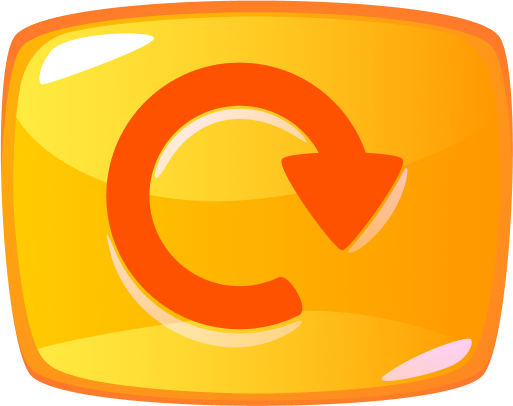
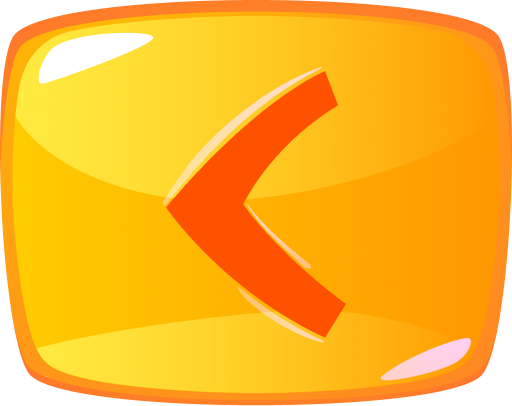
✨ feat(images): add new button and board images for marketplace screen

diff --git a/screens/marketplace/marketplace.css b/screens/marketplace/marketplace.css
@@ -1,28 +1,77 @@
-/* Marketplace Screen Styles */
 .marketplace-screen {
-  position: relative;
-  width: 100%;
-  height: 100%;
-  display: flex;
-  align-items: center;
-  justify-content: center;
-  background: radial-gradient(120% 120% at 50% 0%, #1e1b4b 0%, #0f172a 60%, #090b19 100%);
-}
+  .screen__background {
+    background-image: url("../../assets/images/common/background-01.png");
+    background-size: cover;
+    background-position: center;
+    background-repeat: no-repeat;
+  }
 
-.marketplace-content {
-  text-align: center;
-  color: var(--text-primary);
-}
+  .screen__content {
+    padding: 8% 16px;
+    justify-content: space-between;
+    gap: 3vh;
+  }
 
-.marketplace-title {
-  font-family: var(--font-display);
-  font-size: var(--text-3xl);
-  font-weight: 700;
-  margin-bottom: var(--space-4);
-}
+  .screen__action {
+    width: 100%;
 
-.marketplace-description {
-  font-size: var(--text-lg);
-  color: var(--text-secondary);
-  margin-bottom: var(--space-6);
+    .marketplace-selection {
+      width: 100%;
+      display: flex;
+      align-items: center;
+      justify-content: space-between;
+      gap: 2vw;
+
+      .left-btn,
+      .right-btn {
+        width: 15vw;
+        max-width: 54px;
+        height: auto;
+        cursor: pointer;
+        filter: drop-shadow(0 2px 4px rgba(0, 0, 0, 0.3));
+      }
+
+      .board {
+        width: 55vw;
+        max-width: 300px;
+        height: auto;
+
+        position: absolute;
+        top: -5%;
+        left: 50%;
+        transform: translateX(-50%);
+
+        z-index: 1;
+      }
+
+      .ground {
+        margin-top: 20%;
+        width: 45vw;
+        height: auto;
+      }
+    }
+  }
+
+  .screen__footer {
+    display: flex;
+    justify-content: center;
+    align-items: center;
+
+    .back-btn {
+      width: 24vw;
+      max-width: 120px;
+      height: auto;
+      cursor: pointer;
+      transition: transform 0.2s ease;
+      filter: drop-shadow(0 2px 4px rgba(0, 0, 0, 0.3));
+
+      &:hover {
+        transform: scale(1.1);
+      }
+
+      &:active {
+        transform: scale(0.95);
+      }
+    }
+  }
 }

diff --git a/screens/marketplace/marketplace.html b/screens/marketplace/marketplace.html
@@ -1,7 +1,53 @@
-<div class="marketplace-screen">
-  <div class="marketplace-content">
-    <h1 class="marketplace-title">Marketplace</h1>
-    <p class="marketplace-description">Coming Soon!</p>
-    <button id="back-btn" class="btn btn-primary">Back to Select</button>
+<div class="screen marketplace-screen">
+  <div class="screen__background"></div>
+
+  <div class="screen__content">
+    <div class="screen__logo">
+      <img src="assets/images/logo.png" alt="ACE Logo" class="logo-img" />
+    </div>
+
+    <div class="screen__action">
+      <div class="marketplace-selection">
+        <div class="">
+          <img
+            id="left-btn"
+            src="assets/images/common/triangle-left-button.png"
+            class="left-btn"
+            alt="Left"
+          />
+        </div>
+        <div class="">
+          <div>
+            <img
+              id="board"
+              src="assets/images/marketplace/board-01.png"
+              class="board"
+              alt="Board"
+            />
+          </div>
+          <div>
+            <img
+              id="ground"
+              src="assets/images/marketplace/ground.png"
+              class="ground"
+              alt="Ground"
+            />
+          </div>
+        </div>
+        <div class="">
+          <img
+            id="right-btn"
+            src="assets/images/common/triangle-right-button.png"
+            class="right-btn"
+            alt="Right"
+          />
+        </div>
+      </div>
+    </div>
+
+    <div style="height: 100px" />
+  </div>
+  <div class="screen__footer">
+    <img id="back-btn" src="assets/images/common/back-button.png" alt="Back" class="back-btn" />
   </div>
 </div>

diff --git a/screens/select/select.css b/screens/select/select.css
@@ -2,8 +2,9 @@
   .screen__action {
     .btn {
       width: 64vw;
-      max-width: 256px;
+      max-width: 300px;
       transition: transform 0.2s ease;
+      margin-right: -32px;
     }
   }
 
